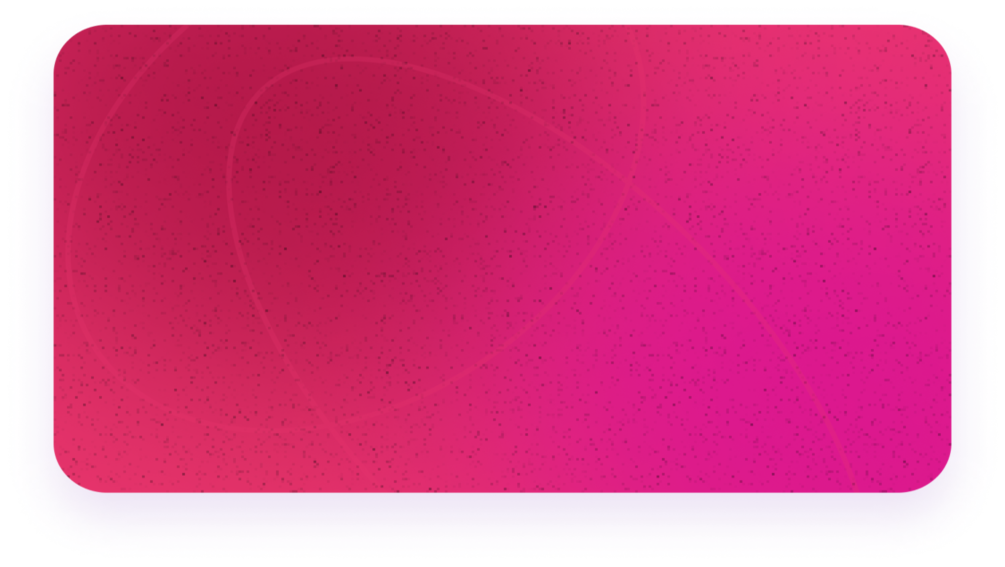
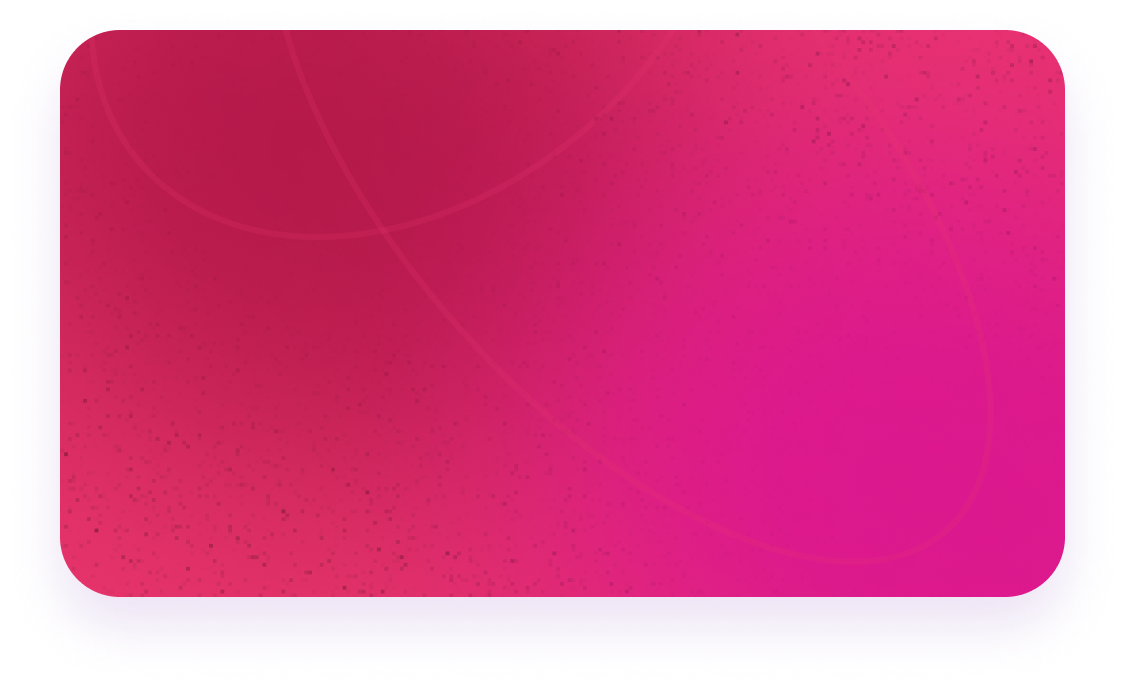
fixes

diff --git a/src/css/dashboard.css b/src/css/dashboard.css
@@ -116,7 +116,7 @@ div.content {
 }
 
 .inner-card {
-  box-shadow: 0px 6px 12px rgba(134, 133, 133, 0.06);
+  /* box-shadow: 0px 6px 12px rgba(134, 133, 133, 0.06); */
   border-radius: 20px;
 }
 
@@ -205,18 +205,34 @@ input:checked + .slider:before {
   background-position: 50%;
   background-repeat: no-repeat;
   background-size: cover; 
+  box-shadow: 0px 15px 22px rgb(197 155 223);
 }
 
 .two {
   background-color: #E8356D!important;
-  /* background-image: url('../img/dashboard/dilla-bg.png'); */
-  background-position: 50%;
+  background-image: url('../img/dashboard/dilla-bg.png');
+  background-position: 65%;
   background-repeat: no-repeat;
-  background-size: cover; 
+  background-size: 598px 292px;
+  box-shadow: 0px 15px 22px rgb(193 150 171);
 }
 
 .three {
   padding-bottom: 21px!important;
+  background-color: #F9F9F9;
+  border: 1px solid rgba(136, 7, 247, 0.1);
+}
+
+.three .san {
+  color: #3D0072!important;
+}
+
+.three .amount {
+  color: #3D0072!important;
+}
+
+.three .bi-eye-fill {
+  color: #3D007280;
 }
 
 .kyc {
@@ -228,6 +244,13 @@ input:checked + .slider:before {
   line-height: 14px;
   font-weight: 700;
   color: #3D0072;
+}
+
+.new-kyc h3 {
+  font-size: 18px;
+  line-height: 14px;
+  font-weight: 500;
+  color: #9CA3AF!important;
 }
 
 .second-nav {

diff --git a/src/components/dashboardParts/main.js b/src/components/dashboardParts/main.js
@@ -281,7 +281,7 @@ function Sidebar() {
             </div>
           </div>
           <div className="col-md-4 mb-3">
-            <div className="card p-3 bg-white border border-0 inner-card three">
+            <div className="card p-3 border inner-card three">
               <div className="d-flex flex-row p-2">
                 <span className="me-4 san">Total Funds</span>
               </div>
@@ -301,7 +301,7 @@ function Sidebar() {
             </div>
           </div>
         </div>
-        <div className="row kyc">
+        <div className="row kyc new-kyc">
           <div className="col-md-6">
             <h3>Complete KYC</h3>
           </div>
